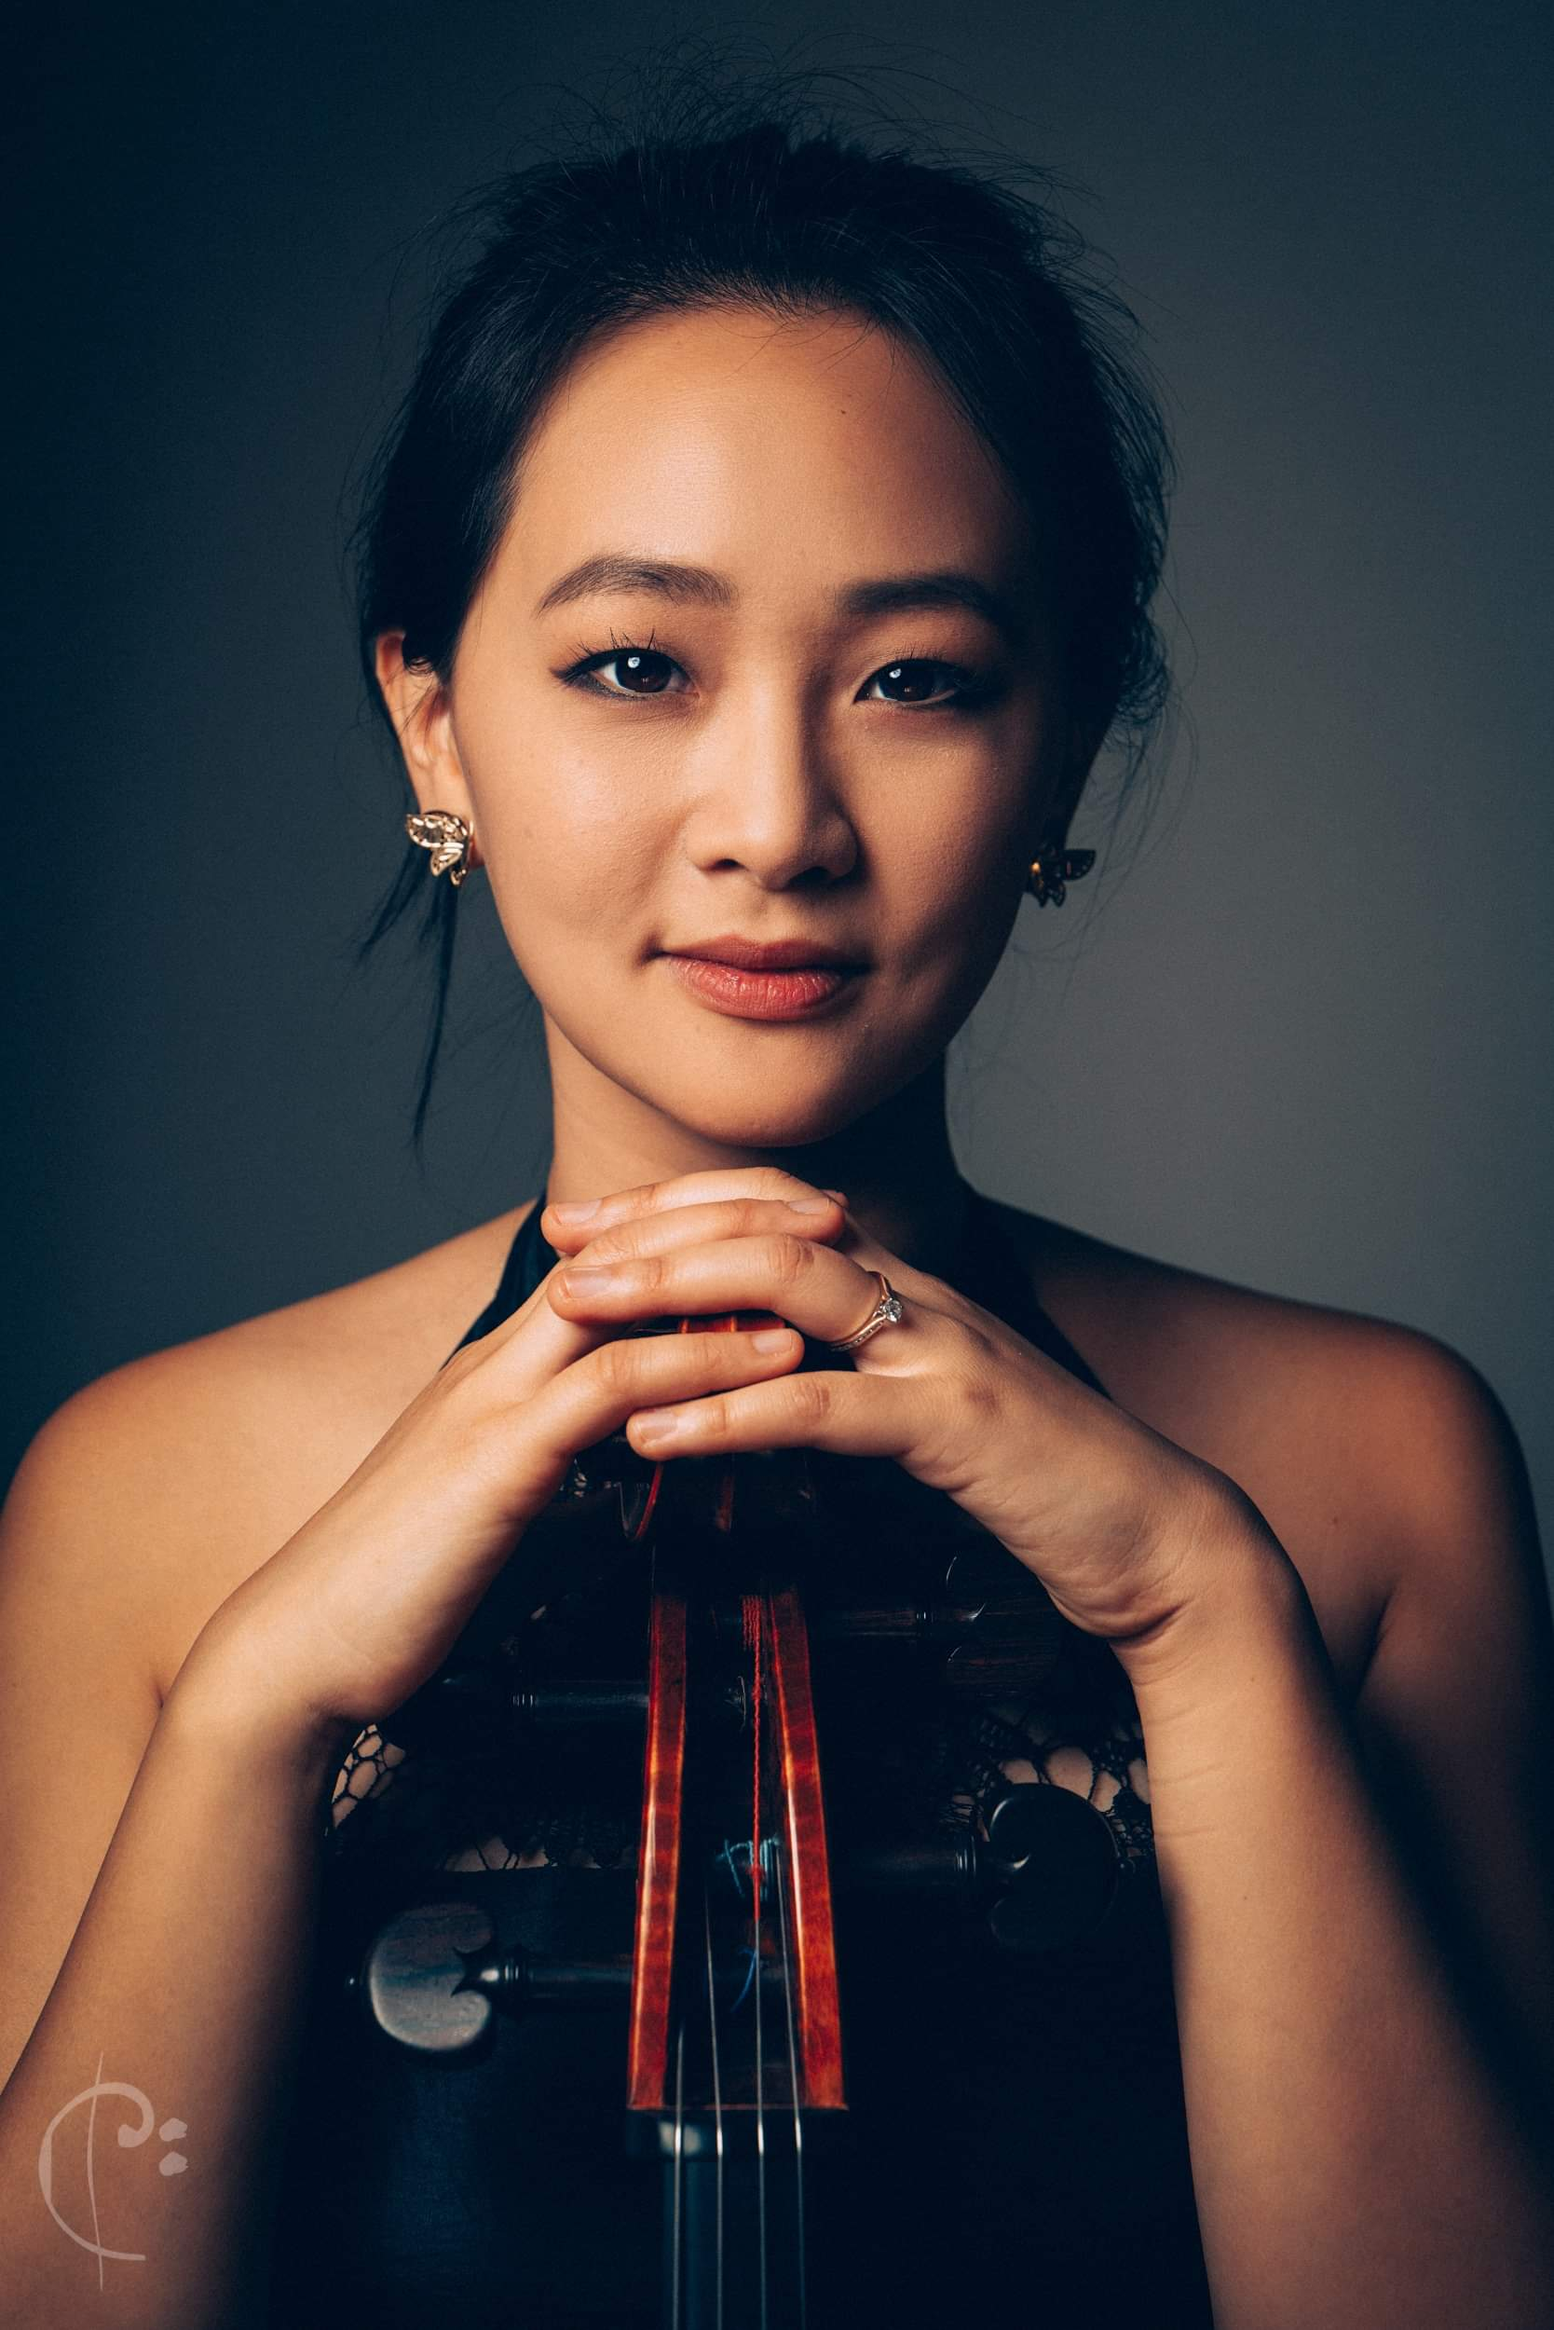
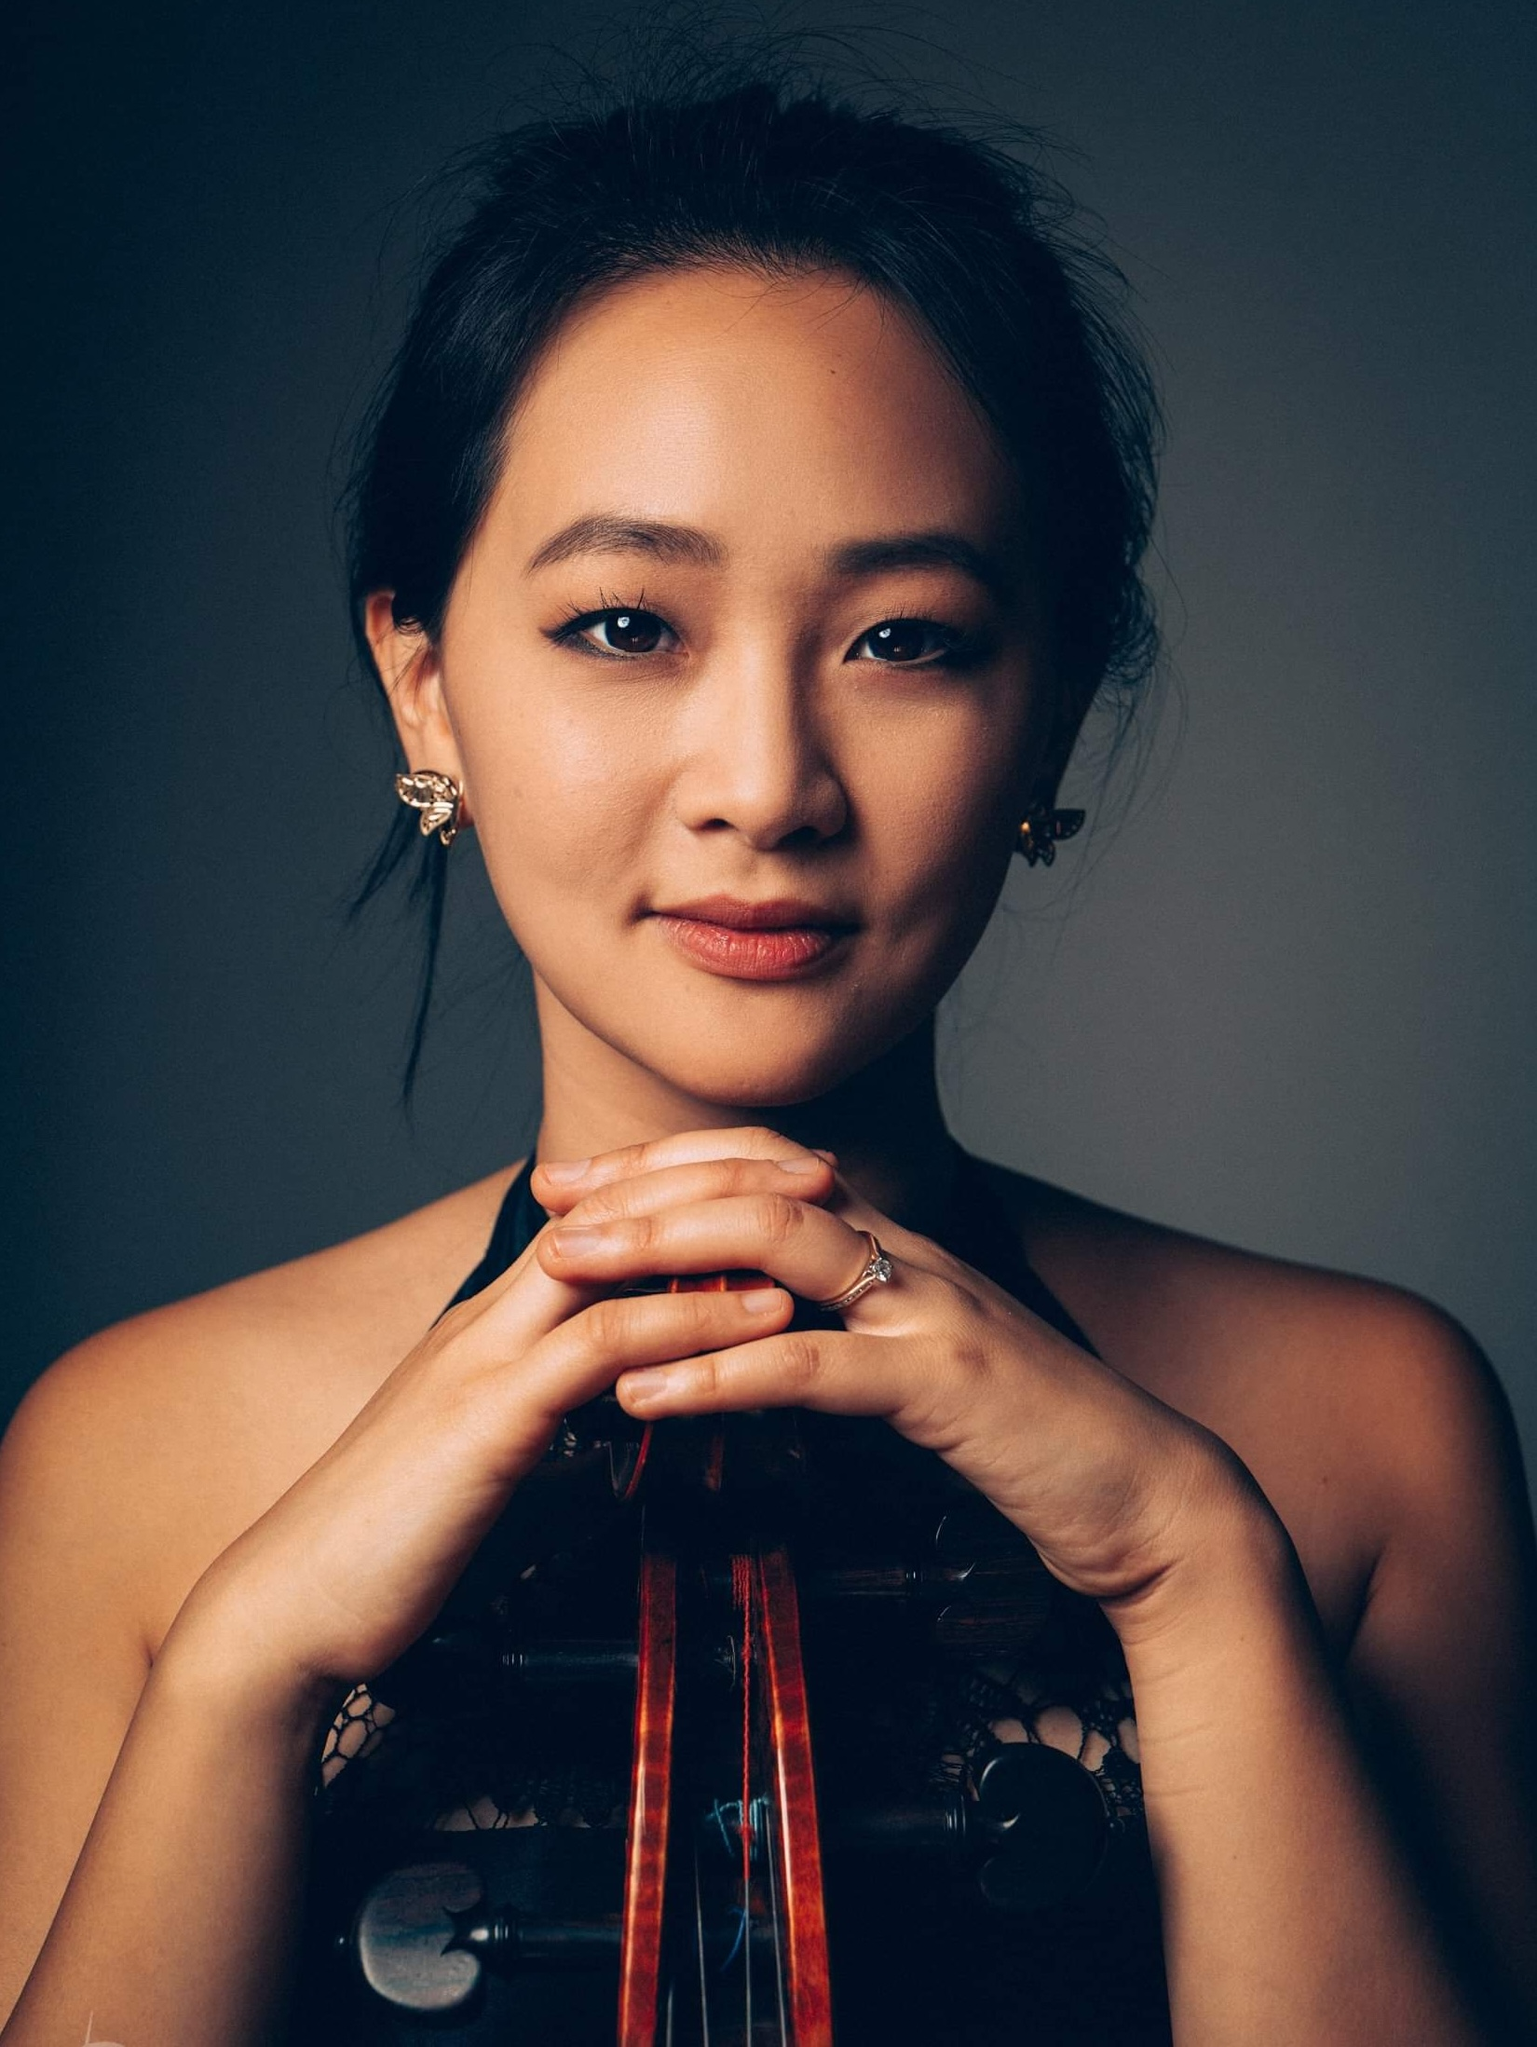
Update artists

diff --git a/src/app/artists/[id]/page.tsx b/src/app/artists/[id]/page.tsx
@@ -3,6 +3,8 @@ import Image from "next/image";
 import type { NextPage } from "next"; // Import NextPage type
 import { artists } from "~/lib/artists";
 import type { Artists } from "~/lib/artists";
+import Link from "next/link";
+import { RimuFestLogo } from "~/components/PageHero/RimufestLogo";
 
 export const dynamicParams = false;
 
@@ -21,9 +23,15 @@ const Artist: NextPage<{ params: { id: Artists } }> = ({ params }) => {
 
   return (
     <>
-      <div className="md:w-100 p-8 md:mx-auto md:my-20">
-        <div className="flex flex-col md:flex-row">
-          <div className="md:w-1/2 md:self-end">
+      <div className="z-20 w-full flex flex-col items-center gap-4 pt-20 mb-8 md:px-10 lg:px-16">
+        <Link href={"/"}>
+          <RimuFestLogo />
+        </Link>
+      </div>
+
+      <div className="md:w-[750px] lg:w-[900px] p-8 md:mx-auto mb-20 ">
+        <div className="flex flex-col gap-8 md:justify-between md:flex-row">
+          <div className="md:self-end">
             <div className="text-5xl font-extrabold">{artist.name}</div>
             {artist.title && <p className="text-3xl">{artist.title}</p>}
             <p className="text-2xl">{artist.instrument}</p>
@@ -36,20 +44,22 @@ const Artist: NextPage<{ params: { id: Artists } }> = ({ params }) => {
               </a>
             )}
           </div>
-          <div className="md:w-1/2">
+
+          <div className="relative w-auto md:h-[450px] lg:h-[500px] aspect-10/12">
             <Image
-              height={2000}
-              width={1000}
+              fill
               src={`/artists/${artist.image}.jpeg`}
               alt={artist.name}
-              className="h-96 w-full object-cover md:w-auto"
+              className="object-cover"
+
+              // className="h-96 w-full object-cover md:w-auto"
             />
           </div>
         </div>
         {artist.bio && (
           <div className="mt-4">
             {artist.bio.map((paragraph, index) => (
-              <div key={index} className="text-lg">
+              <div key={index} className="text-md">
                 {paragraph}
               </div>
             ))}

diff --git a/src/app/annual-festival/Faculty.tsx b/src/app/annual-festival/Faculty.tsx
@@ -1,0 +1,32 @@
+import React from "react";
+import { FeatureBox } from "~/components/FeatureBox";
+import { artists } from "~/lib/artists";
+import type { Artist } from "~/lib/artists";
+
+const facultyMembers: Artist[] = [
+  artists["amelia-taylor"],
+  artists["kate-ellingham-hunt"],
+  artists["maria-mo"],
+  artists["jesbery-hartono-hall"],
+  artists["callum"],
+];
+
+export const Faculty = () => {
+  return (
+    <div className="my-12 w-full lg:px-24">
+      <h2 className="text-3xl font-bold ">Faculty</h2>
+      <div className="grid grid-cols-1 md:grid-cols-2 xl:grid-cols-3 gap-6 mt-8">
+        {Object.values(facultyMembers).map((artist) => (
+          <FeatureBox
+            key={artist.path}
+            imageSrc={`/artists/${artist.image}.jpeg`}
+            captions={[artist.instrument]}
+            href={`/artists/${artist.path}`}
+            title=""
+            borderColor="green"
+          />
+        ))}
+      </div>
+    </div>
+  );
+};

diff --git a/src/app/annual-festival/page.tsx b/src/app/annual-festival/page.tsx
@@ -1,6 +1,7 @@
 import { PageHero } from "~/components/PageHero/PageHero";
 import { Details } from "./Details";
 import { OnOffer } from "./OnOffer";
+import { Faculty } from "./Faculty";
 
 const Annual2025 = () => {
   return (
@@ -11,6 +12,7 @@ const Annual2025 = () => {
           <Details />
           <OnOffer />
         </div>
+        <Faculty />
       </div>
     </>
   );
